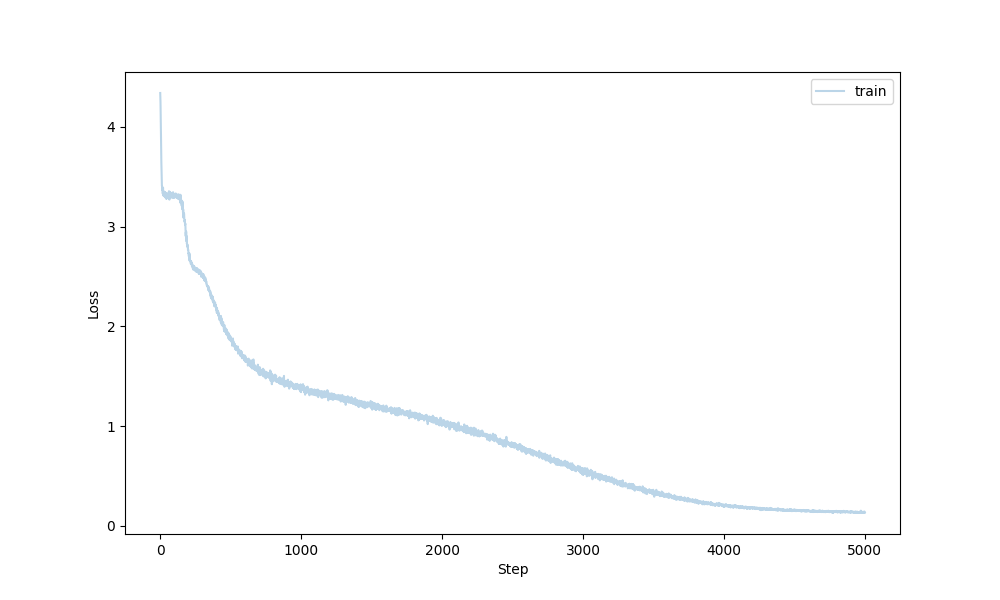
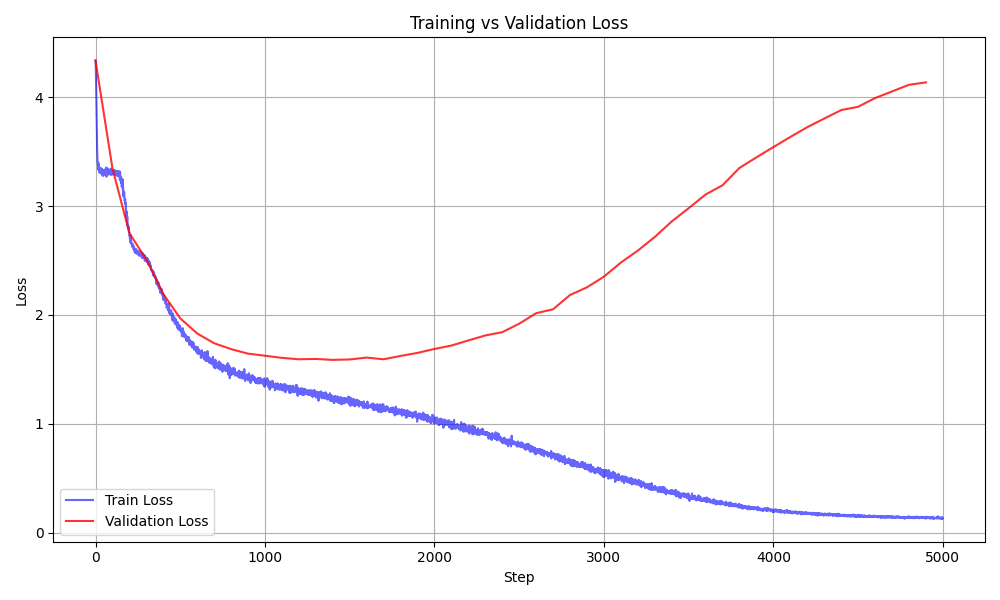
add val loss to the visualization curve

diff --git a/scratchpad/monitoring.py b/scratchpad/monitoring.py
@@ -1,13 +1,29 @@
-# pip install matplotlib
-import json, matplotlib.pyplot as plt
+import json
+import matplotlib.pyplot as plt
 
+# Charger le log
 with open("loss_log.json") as f:
     log = json.load(f)
 
+steps = log["steps"]
+train_loss = log["train"]
+val_loss = log["val"]
+
+# Détecter la fréquence de validation
+freq = len(steps) // len(val_loss)
+val_steps = steps[::freq][:len(val_loss)]
+
 plt.figure(figsize=(10, 6))
-plt.plot(log["steps"], log["train"], alpha=0.3, label="train")
+
+plt.plot(steps, train_loss, label="Train Loss", color="blue", alpha=0.6)
+plt.plot(val_steps, val_loss, label="Validation Loss", color="red", alpha=0.8)
+
 plt.xlabel("Step")
 plt.ylabel("Loss")
+plt.title("Training vs Validation Loss")
 plt.legend()
+plt.grid(True)
+
+plt.tight_layout()
 plt.savefig("loss_curve.png")
 plt.show()